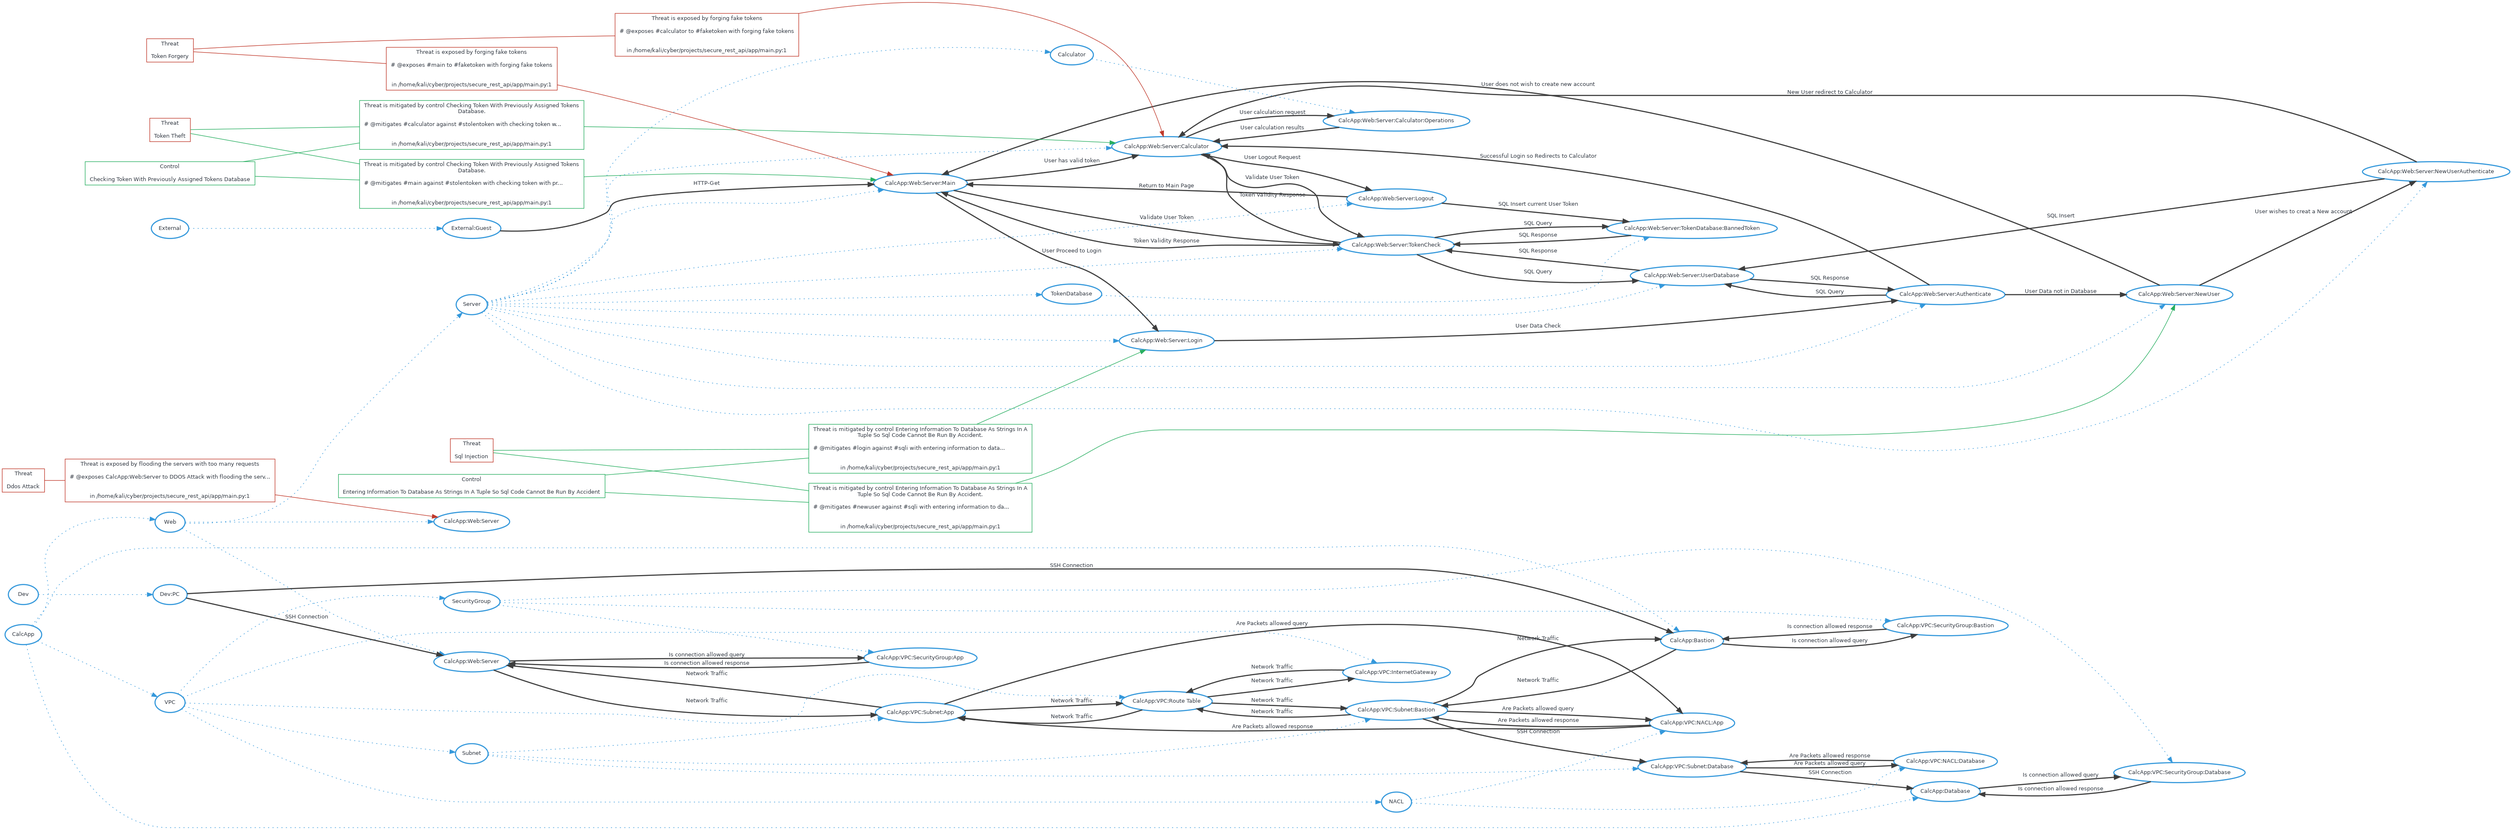
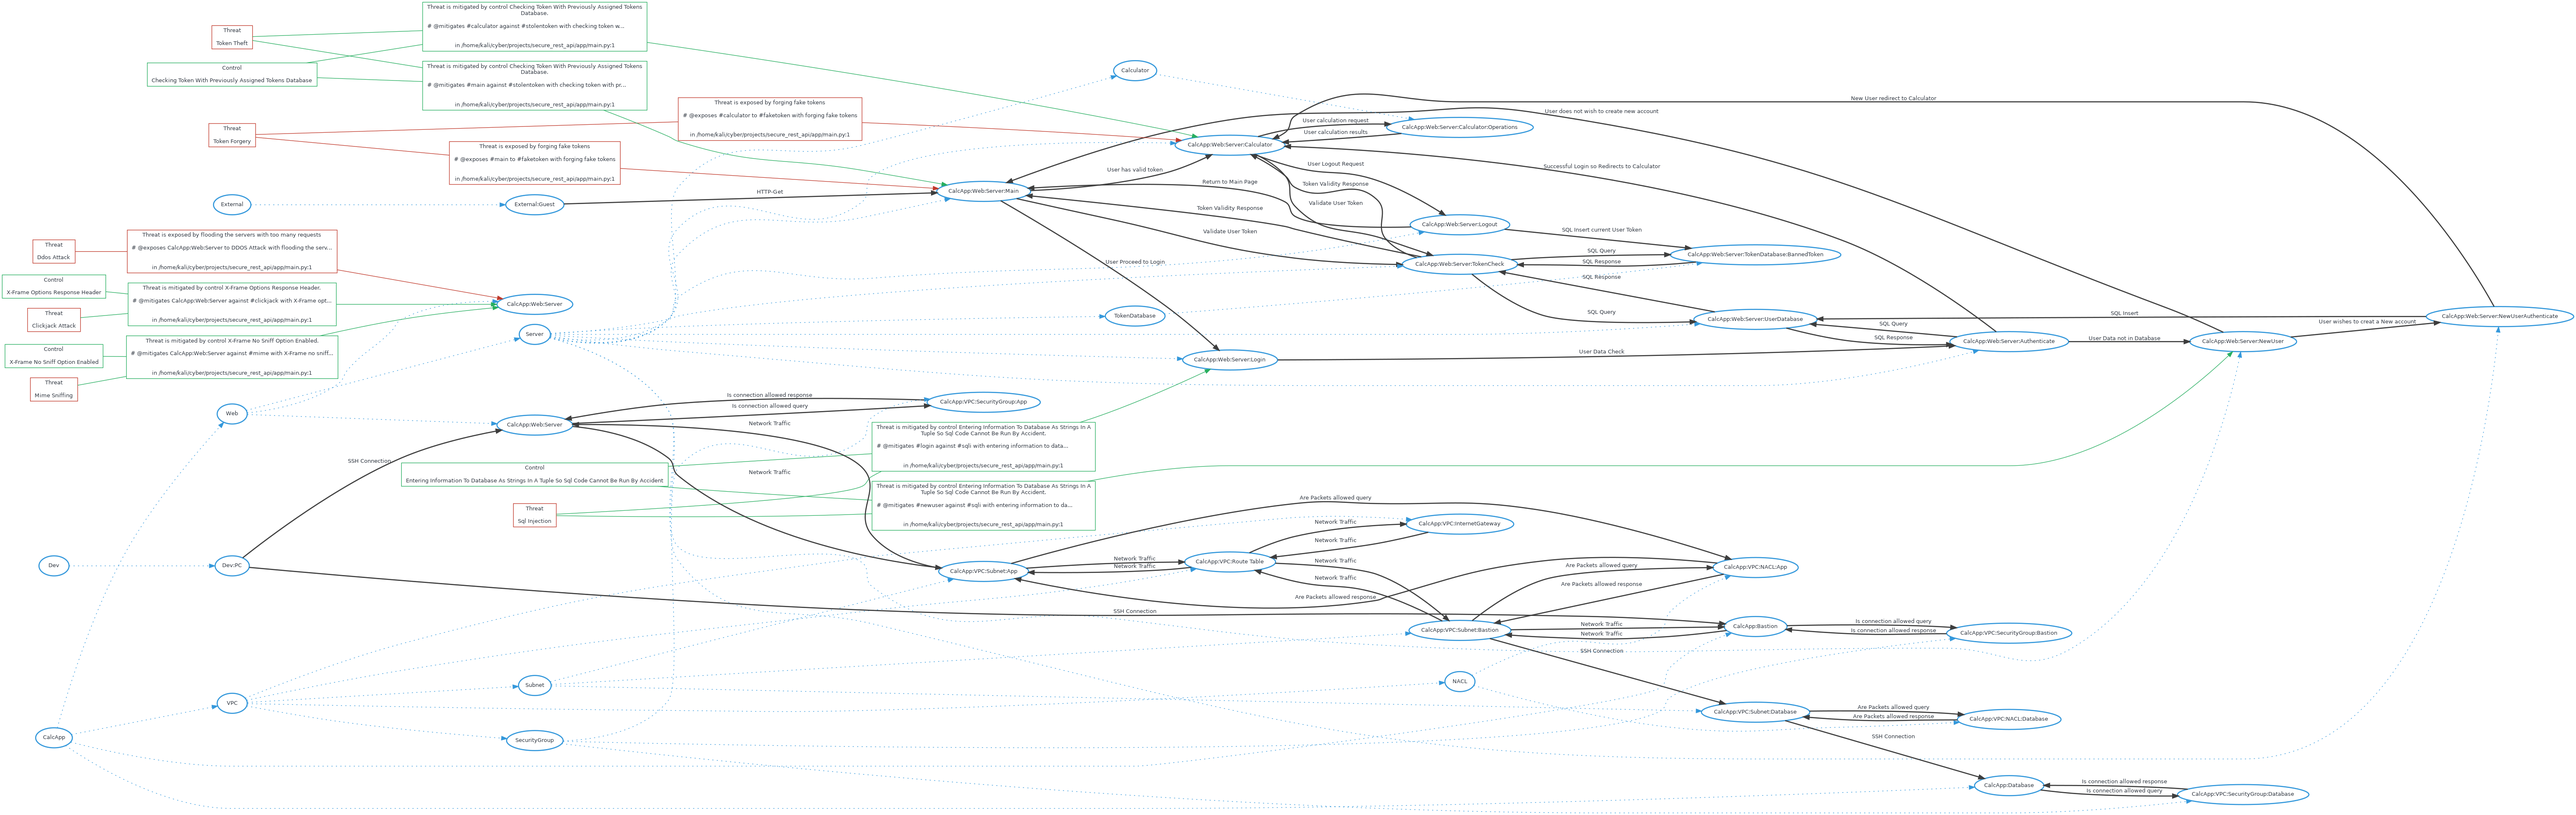
threat model update

diff --git a/app/main.py b/app/main.py
@@ -17,6 +17,8 @@ flaskapp = Flask(__name__)
 # @threat MITM Attack (#mitm)
 # @threat Token Forgery (#faketoken)
 # @threat Token Theft (#stolentoken)
+# @threat Clickjack Attack (#clickjack)
+# @threat MIME Sniffing (#mime)
 def newuser(username, password):
     with closing(sqlite3.connect("users.db")) as connection:
         with closing(connection.cursor()) as cursor:
@@ -251,3 +253,5 @@ if __name__ == "__main__":
 # @exposes #calculator to #faketoken with forging fake tokens
 # @mitigates #login against #sqli with entering information to database as strings in a tuple so SQL code cannot be run by accident
 # @mitigates #newuser against #sqli with entering information to database as strings in a tuple so SQL code cannot be run by accident
+# @mitigates CalcApp:Web:Server against #clickjack with X-Frame options response header
+# @mitigates CalcApp:Web:Server against #mime with X-Frame no sniff option enabled
